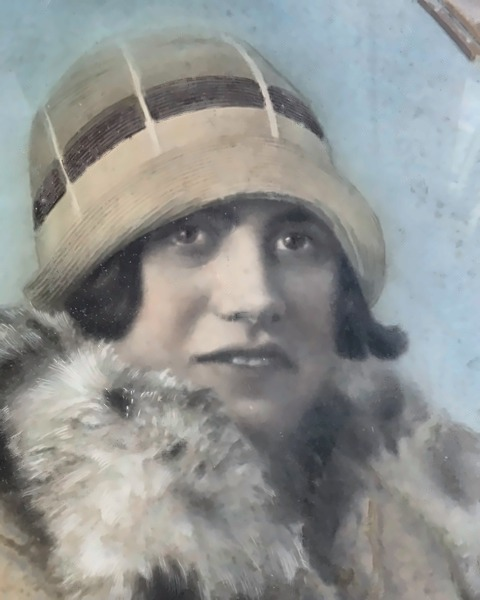
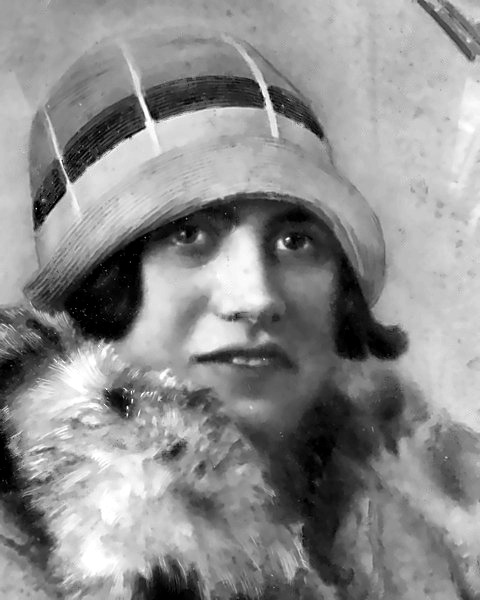
Tipuna: Girlie's portrait in black and white
Claude-Session: https://claude.ai/code/session_01LThyTBrLcFZEEVGrYi5N7g

diff --git a/about.html b/about.html
@@ -196,7 +196,7 @@
     <div class="com-grid g1-row">
 
       <div class="person-card">
-        <img src="/images/g1-10.jpg?v=20261023a" class="person-photo" alt="Florence Wharepapa (Girlie)"
+        <img src="/images/g1-10.jpg?v=20261023b" class="person-photo" alt="Florence Wharepapa (Girlie)"
              onerror="this.outerHTML='<div class=\'person-photo-ph\'><span>g1-10.jpg</span></div>'">
         <div class="person-body">
           <div class="person-name">Florence Wharepapa (Girlie)</div>
